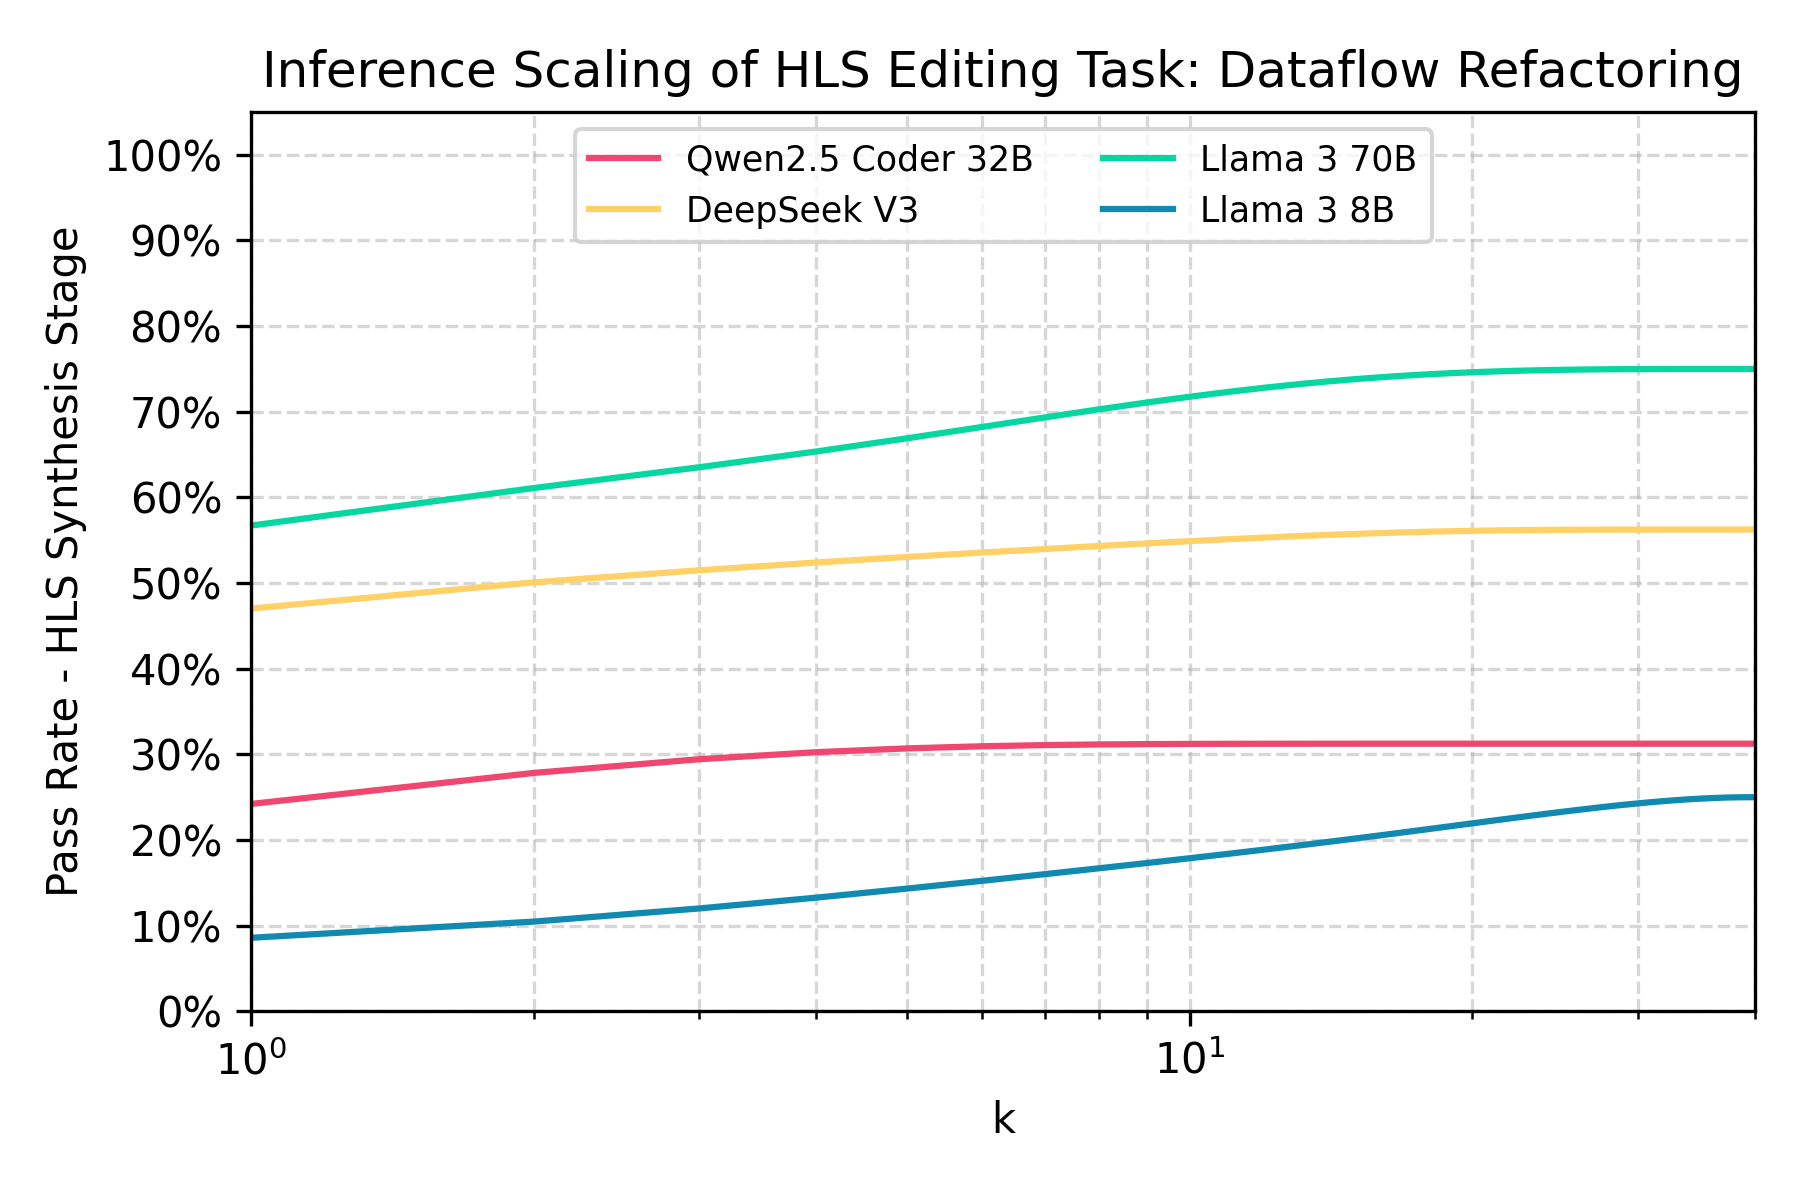
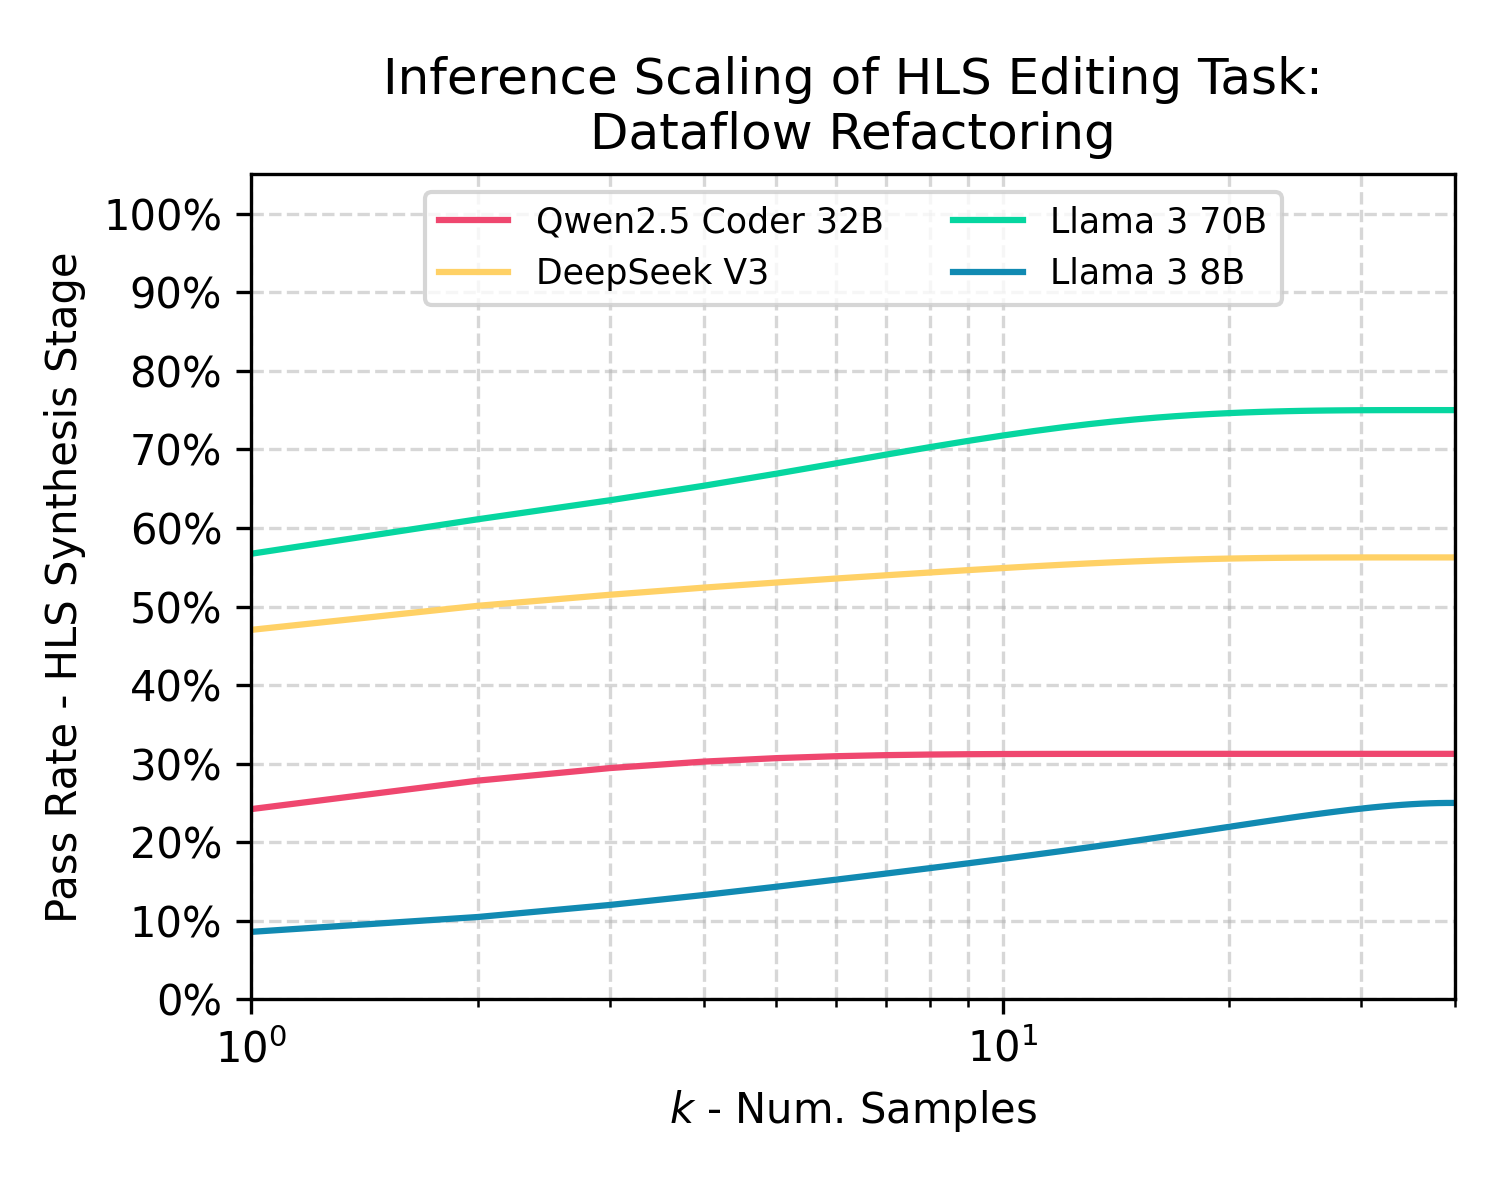
tweaks

Changed region(s): [[0.0307, 0.0308, 0.9813, 0.9558], [0.3067, 0.3083, 0.3373, 0.3392]]

diff --git a/hls_eval_experiments/hls_inference_scaling/analyze.py b/hls_eval_experiments/hls_inference_scaling/analyze.py
@@ -79,7 +79,7 @@ print(df_pass_rates_synth_only)
 
 # for each model make a line plot where x is k and y is pass rate
 
-fig, ax = plt.subplots(figsize=(6, 4))
+fig, ax = plt.subplots(figsize=(5, 4))
 
 ax.grid(which="both", axis="both", linestyle="--", alpha=0.5)
 ax.set_axisbelow(True)
@@ -99,9 +99,9 @@ for model_name in df_pass_rates_synth_only["model_name"].unique():
         color=model_color_map[model_name],
     )
 
-ax.set_xlabel("k")
-ax.set_ylabel("Pass rate")
-ax.set_title("Inference Scaling of HLS Editing Task: Dataflow Refactoring")
+ax.set_xlabel("$k$ - Num. Samples")
+ax.set_ylabel("Pass Rate - HLS Synthesis Stage")
+ax.set_title("Inference Scaling of HLS Editing Task:\nDataflow Refactoring")
 ax.legend(loc="upper center", ncol=2, fontsize="small")
 
 ax.set_yticks(np.arange(0, 1.1, 0.1))
@@ -111,7 +111,6 @@ ax.set_yticklabels(
 
 ax.set_ylim(0, 1.05)
 
-ax.set_ylabel("Pass Rate - HLS Synthesis Stage")
 
 ax.set_xlim(1, 40)
 ax.set_xscale("log")
